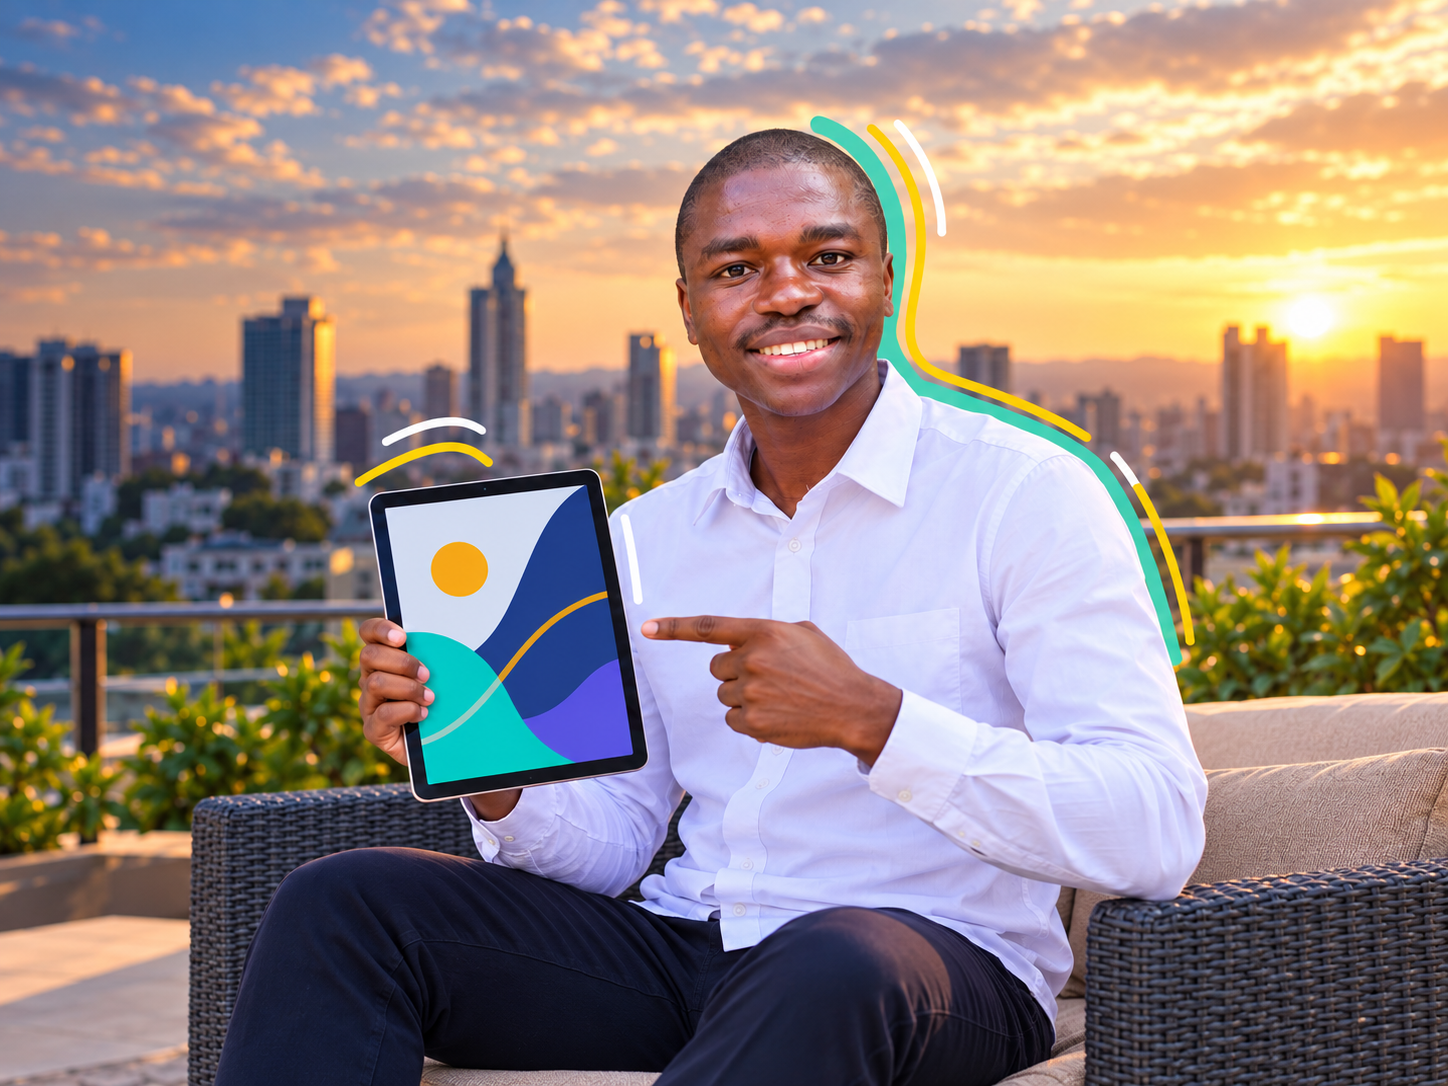
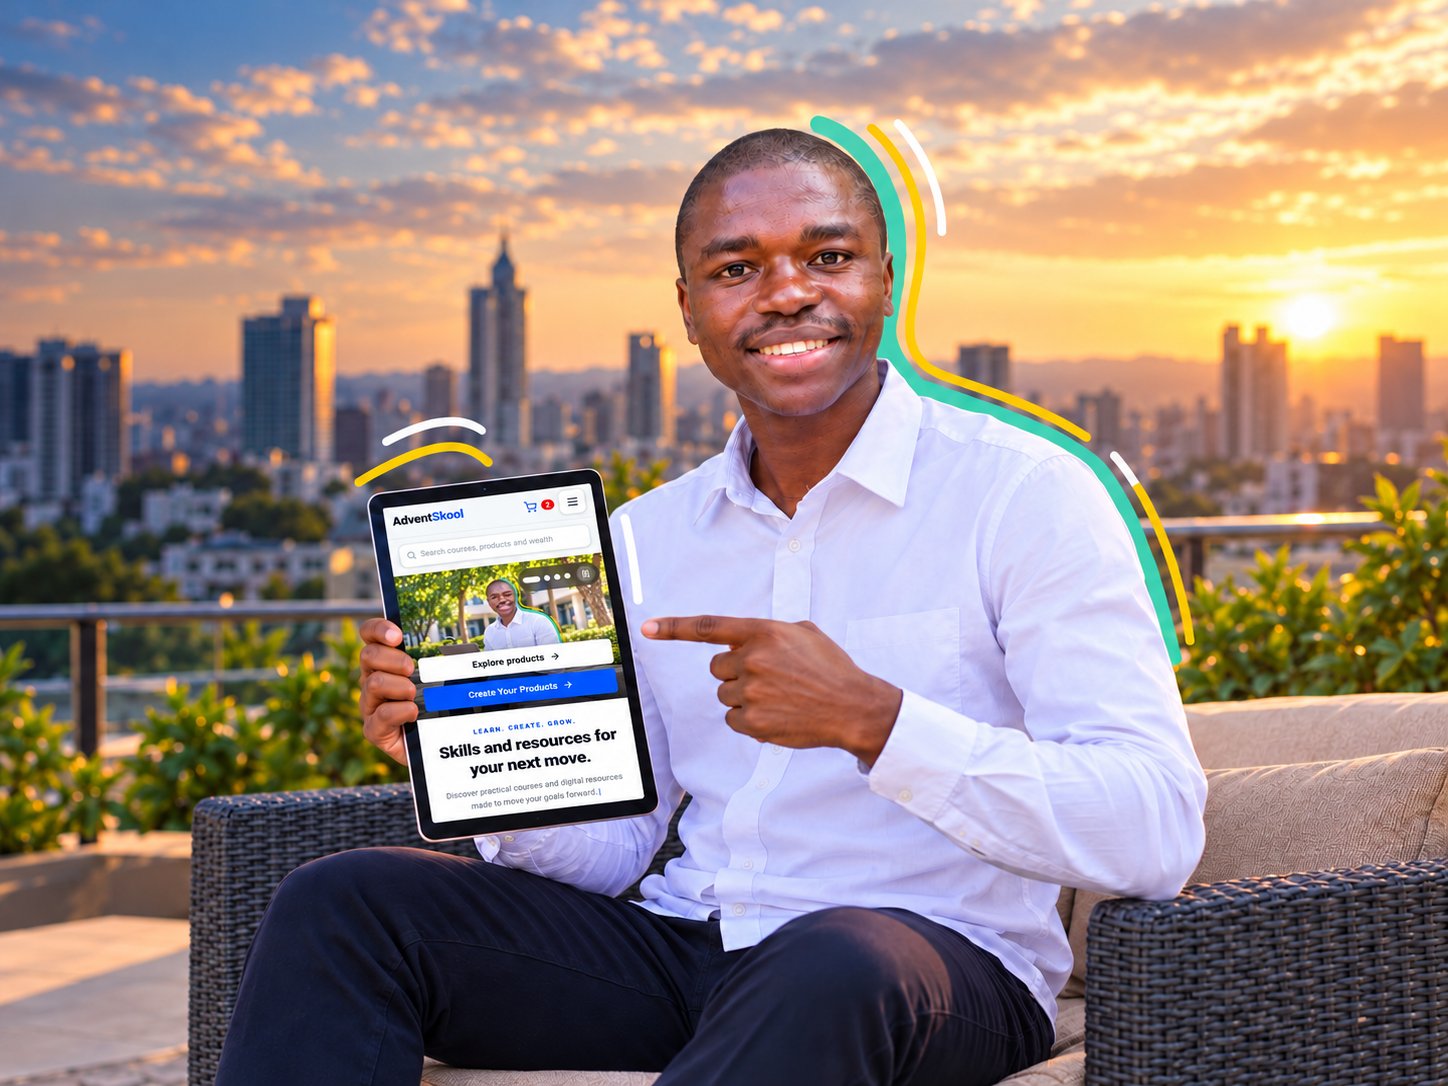
add the fix

Changed region(s): [[0.2486, 0.4254, 0.4662, 0.7901], [0.8391, 0.6685, 1.0, 0.8204], [0.9945, 0.9724, 1.0, 1.0]]

diff --git a/components/marketing/HomeLoadingScreen.tsx b/components/marketing/HomeLoadingScreen.tsx
@@ -4,7 +4,7 @@ export default function HomeLoadingScreen() {
       <div className="pointer-events-none absolute h-80 w-80 rounded-full bg-blue-400/15 blur-3xl dark:bg-blue-500/10" aria-hidden="true" />
       <div className="relative w-full max-w-xs">
         <p className="text-4xl font-black tracking-tight text-slate-950 dark:text-white sm:text-5xl">Advent<span className="text-blue-600 dark:text-blue-400">Skool</span></p>
-        <p className="mt-3 text-sm font-semibold text-slate-600 dark:text-slate-300">Learn, create, grow</p>
+        <p className="mt-3 text-sm font-semibold text-slate-600 dark:text-slate-300">Learn Something, Earn Something</p>
         <p className="mt-10 text-sm font-semibold text-slate-800 dark:text-slate-100">Preparing your experience</p>
         <div className="mt-4 h-1.5 overflow-hidden rounded-full bg-blue-100 dark:bg-slate-800" aria-hidden="true">
           <span className="home-loading-progress block h-full w-1/3 rounded-full bg-blue-600 dark:bg-blue-400" />
